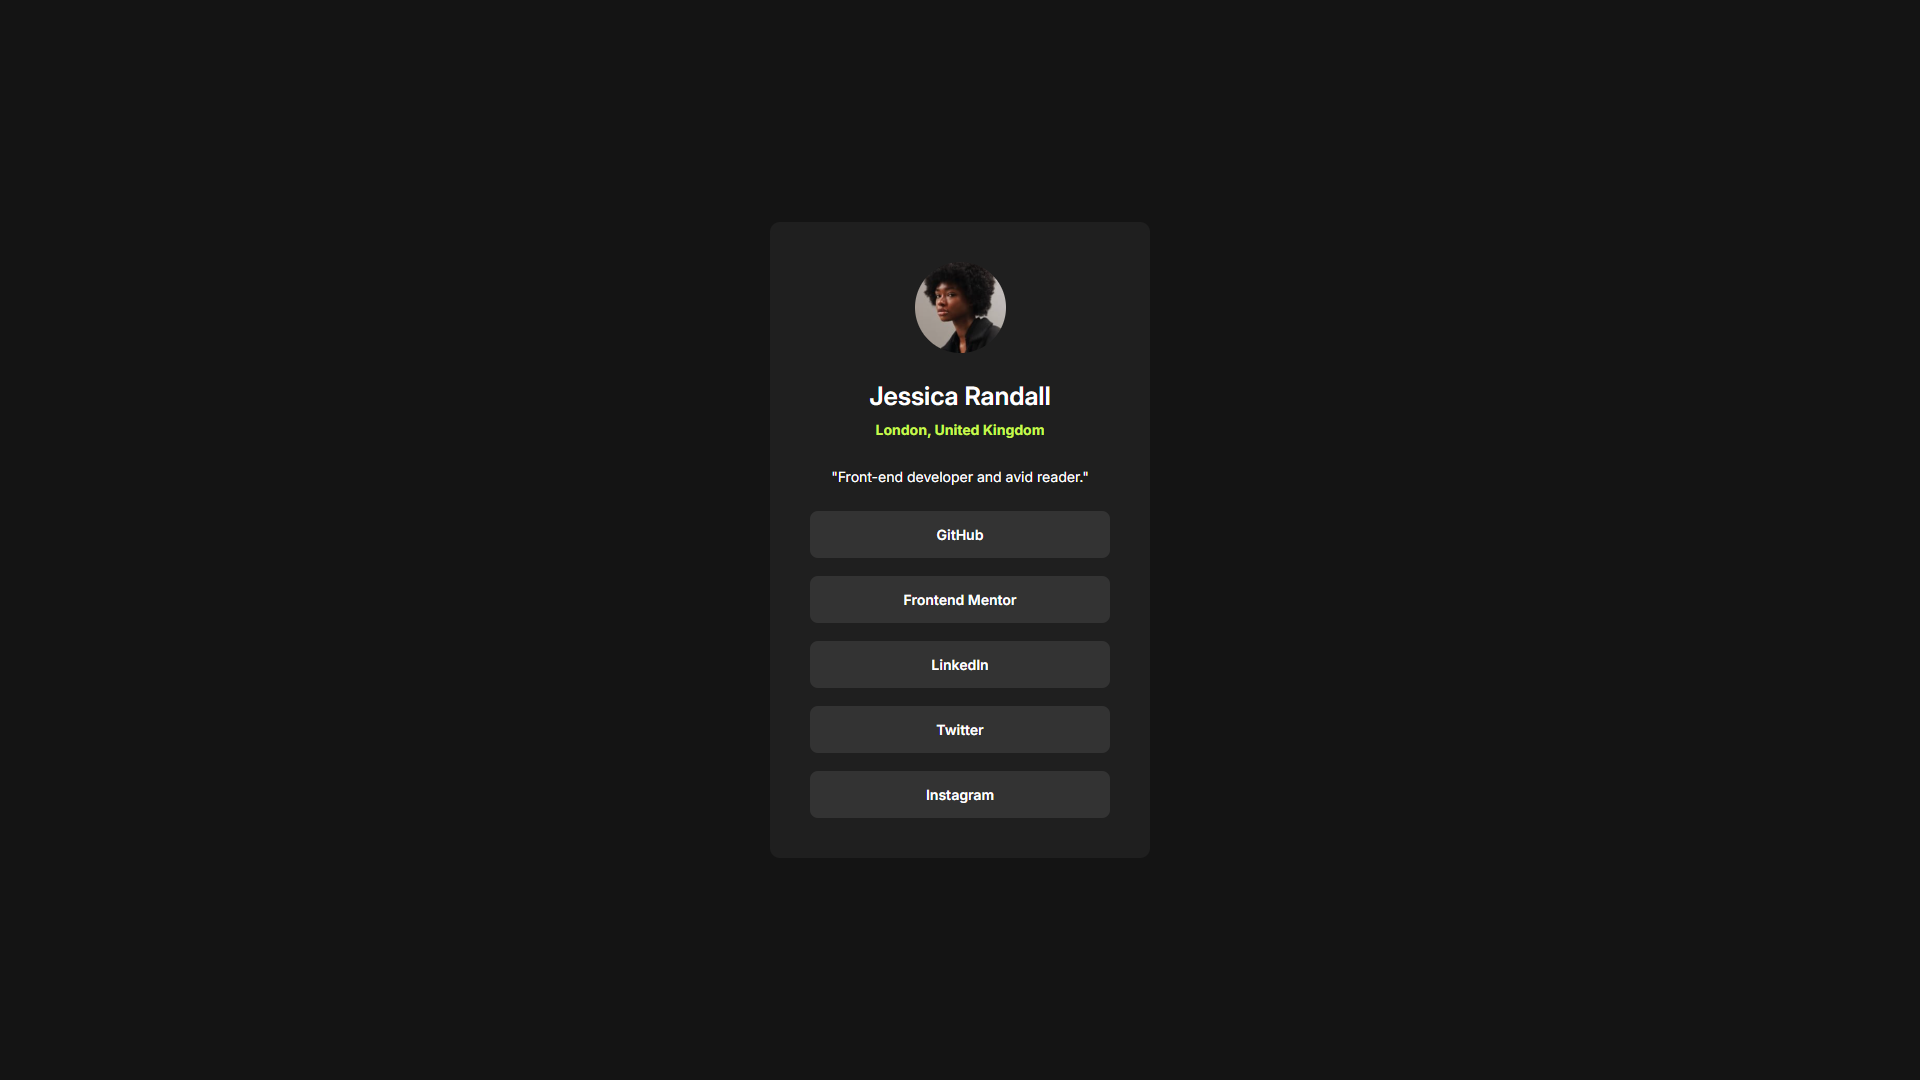
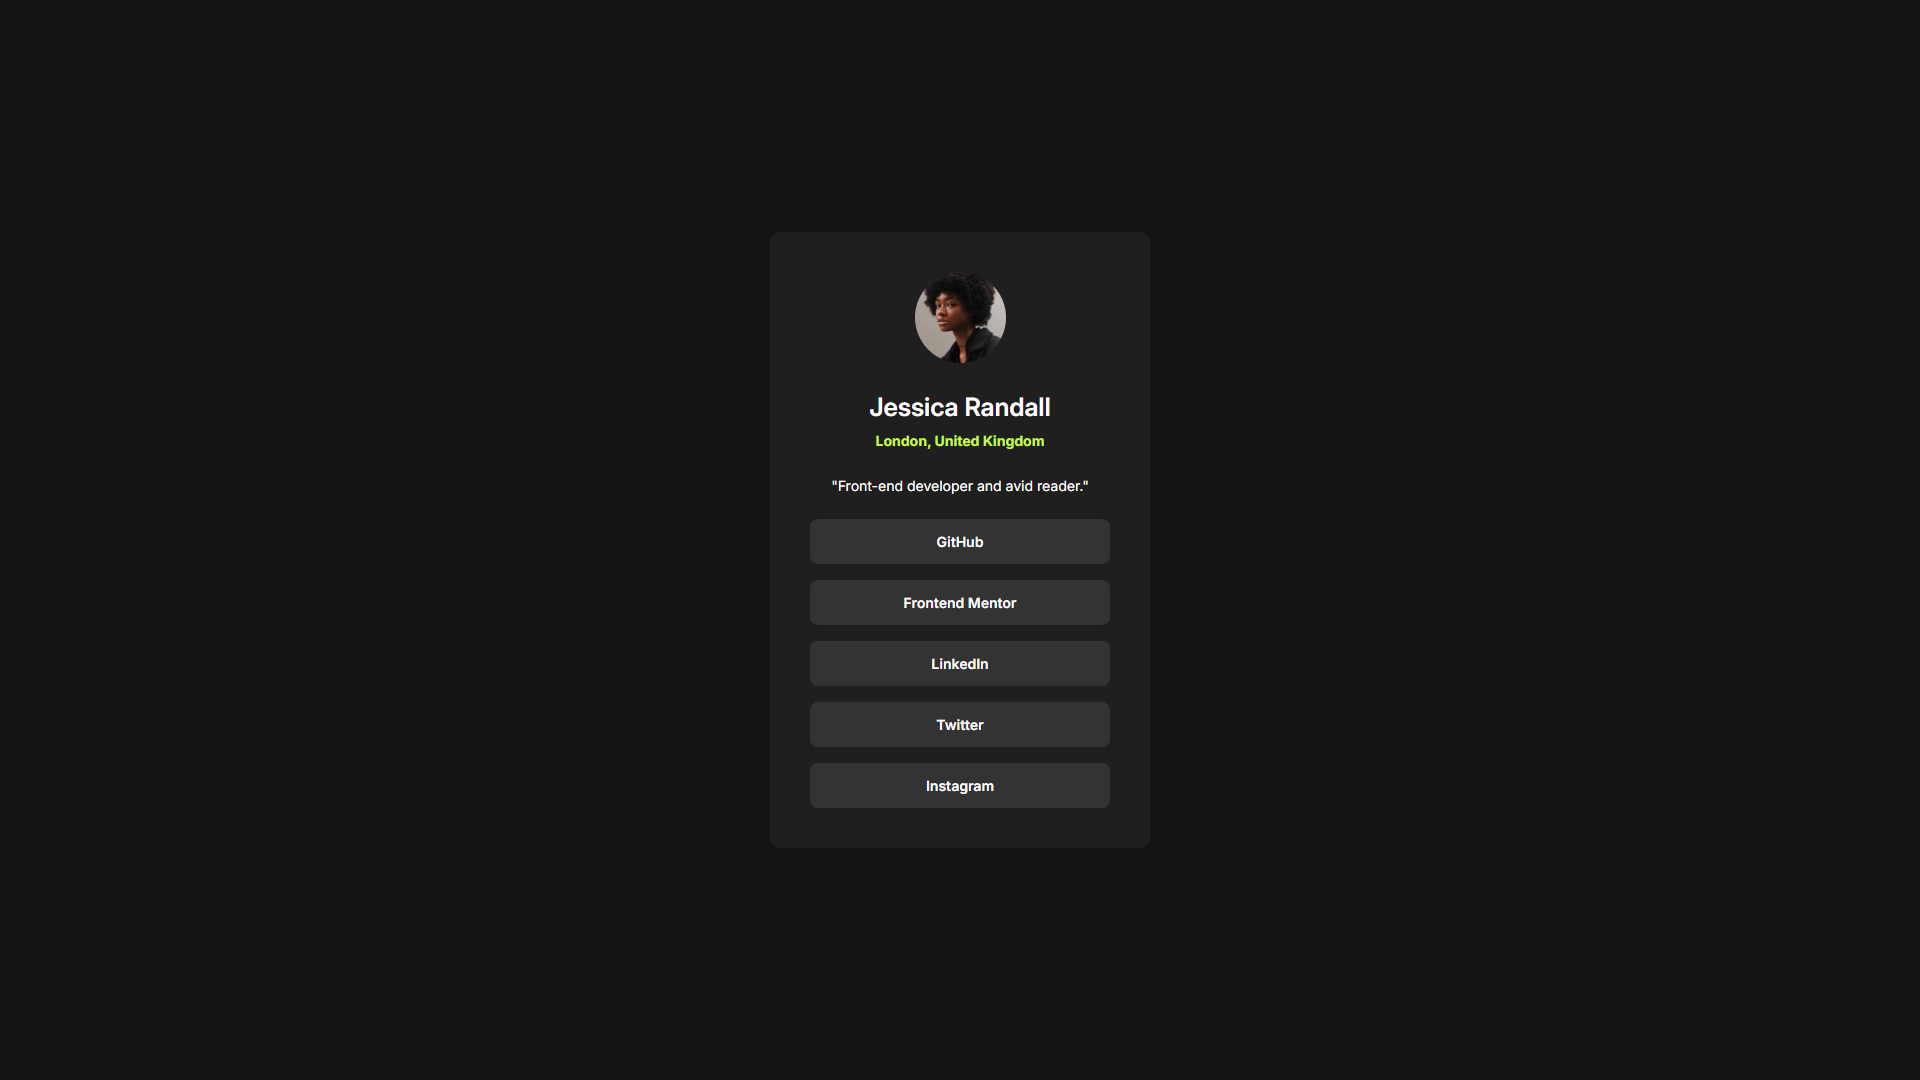
Adjust margins and padding

diff --git a/styles.css b/styles.css
@@ -52,15 +52,15 @@ body {
 }
 
 #description {
-    margin: 30px 0 26px;
+    margin: 28px 0 25px;
     font-weight: 400;
 }
 
 .link {
     display: block;
     background-color: var(--grey-color1);
-    margin-top: 18px;
-    padding: 15px 0;
+    margin-top: 16px;
+    padding: 14px 0;
     border-radius: 8px;
     width: 100%;
     font-weight: 600;
